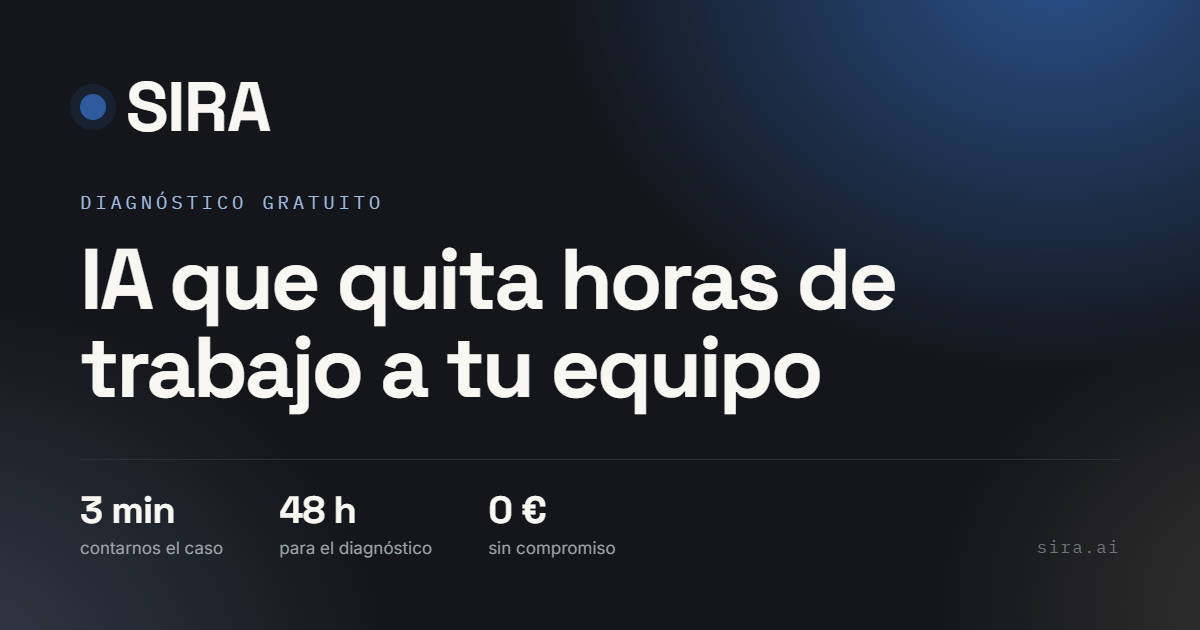
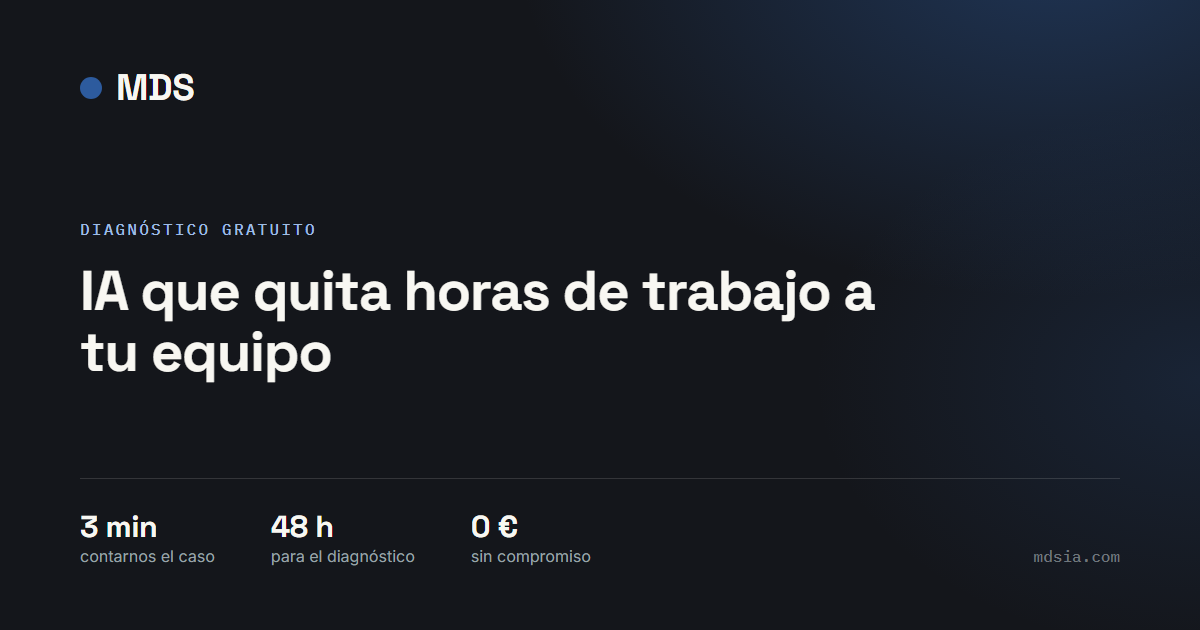
Rebrand: Sira -> MDS, sira.ai -> mdsia.com
Nombre y dominio definitivos. Cambios en el único archivo centralizado
(src/config/site.ts): nombre, dominio, email, número real de WhatsApp.
Regenerada la imagen OG (tenía "Sira" dibujado en los píxeles, no era
texto dinámico) manteniendo el mismo diseño y tokens de marca.
Actualizado robots.txt (dominio ya no es placeholder) y una descripción
hardcodeada en privacidad.astro que se había colado sin pasar por
site.name.

diff --git a/src/config/site.ts b/src/config/site.ts
@@ -1,15 +1,11 @@
-// Placeholder de marca. Nombre, dominio, email y og image cambian juntos
-// el día que se cierre el naming definitivo (ver README > Fidelity).
 export const site = {
-  name: 'Sira',
-  domain: 'https://sira.ai',
-  email: 'hola@sira.ai',
+  name: 'MDS',
+  domain: 'https://mdsia.com',
+  email: 'hola@mdsia.com',
   ogImage: '/og.png',
   locale: 'es-ES',
   ogLocale: 'es_ES',
-  // Placeholder — sustituir por el número real (con prefijo de país, solo
-  // dígitos) cuando esté decidido. Usado para el botón flotante de WhatsApp.
-  whatsapp: '34600000000',
+  whatsapp: '34611980931',
   whatsappMessage: 'Hola, quiero contaros la tarea que más tiempo nos ocupa.',
 } as const;
 
